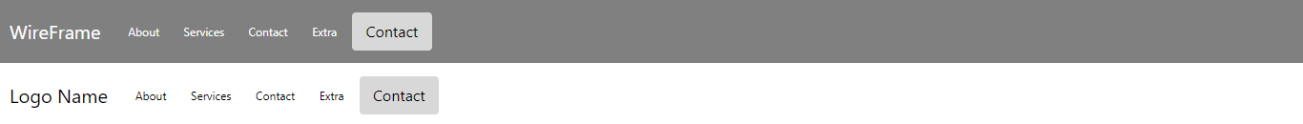
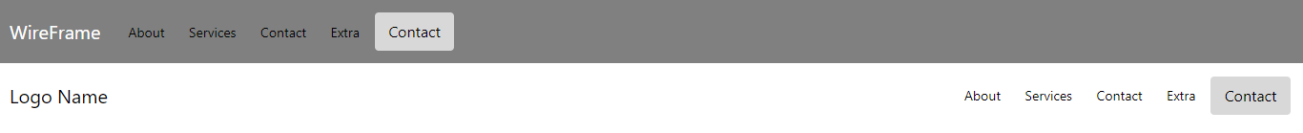
navbar right added

diff --git a/src/App.js b/src/App.js
@@ -1,23 +1,37 @@
 import React from 'react';
 import './App.scss';
 import WireNavBar from './components/WireNavBar';
-import { Navbar, Nav, NavDropdown} from 'react-bootstrap'
-
 import 'bootstrap/dist/css/bootstrap.min.css';
+import { Navbar, Nav, NavDropdown} from 'react-bootstrap'
 import WireNavbarLogo from './components/WireNavbarLogo';
 import WireNavbarLink from './components/WireNavbarLink';
 import Button from './components/Button';
+import Container from './components/Container';
+import NavItemsContainer from './components/NavItemsContainer'
 
 function App() {
   return (
     <div className="App">
        <WireNavBar dark>
           <WireNavbarLogo />  
-          <WireNavbarLink linkTag="About"/>
-          <WireNavbarLink linkTag="Services" />
-          <WireNavbarLink linkTag="Contact" />
-          <WireNavbarLink linkTag="Extra" />
-          <Button btnName="Contact"/>
+          <NavItemsContainer>
+            <WireNavbarLink linkTag="About"/>
+            <WireNavbarLink linkTag="Services" />
+            <WireNavbarLink linkTag="Contact" />
+            <WireNavbarLink linkTag="Extra" />
+            <Button btnName="Contact"/>
+          </NavItemsContainer>
+       </WireNavBar>
+
+       <WireNavBar >
+       <WireNavbarLogo companyName="Logo Name"/>  
+          <NavItemsContainer right >
+            <WireNavbarLink linkTag="About"/>
+            <WireNavbarLink linkTag="Services" />
+            <WireNavbarLink linkTag="Contact" />
+            <WireNavbarLink linkTag="Extra" />
+            <Button btnName="Contact"/>
+          </NavItemsContainer>
        </WireNavBar>
 
        <WireNavBar >
@@ -28,12 +42,38 @@ function App() {
           <WireNavbarLink linkTag="Extra" />
           <Button btnName="Contact"/>
        </WireNavBar>
-
-       <Button primary btnName="Contact"/>
-       <Button btnName="About"/>
+      <Container>
+        <Button primary btnName="Contact"/>
+        <Button btnName="About"/>
+      </Container>
+    
+      <Navbar collapseOnSelect expand="lg" bg="dark" variant="dark">
+  <Navbar.Brand href="#home">React-Bootstrap</Navbar.Brand>
+  <Navbar.Toggle aria-controls="responsive-navbar-nav" />
+  <Navbar.Collapse id="responsive-navbar-nav">
+    <Nav className="mr-auto">
+      <Nav.Link href="#features">Features</Nav.Link>
+      <Nav.Link href="#pricing">Pricing</Nav.Link>
+      <NavDropdown title="Dropdown" id="collasible-nav-dropdown">
+        <NavDropdown.Item href="#action/3.1">Action</NavDropdown.Item>
+        <NavDropdown.Item href="#action/3.2">Another action</NavDropdown.Item>
+        <NavDropdown.Item href="#action/3.3">Something</NavDropdown.Item>
+        <NavDropdown.Divider />
+        <NavDropdown.Item href="#action/3.4">Separated link</NavDropdown.Item>
+      </NavDropdown>
+    </Nav>
+    <Nav>
+      <Nav.Link href="#deets">More deets</Nav.Link>
+      <Nav.Link eventKey={2} href="#memes">
+        Dank memes
+      </Nav.Link>
+    </Nav>
+  </Navbar.Collapse>
+</Navbar>
     </div>
   );
 }
+
 
 
 export default App;

diff --git a/src/App.scss b/src/App.scss
@@ -4,6 +4,9 @@
   
     color: black;
 }
+body{
+    background-color:rgb(243, 243, 243) !important;
+}
 
 .nav-bar{
     display: flex;
@@ -16,16 +19,22 @@
     a {
         margin-right: 1rem;
         font-size: 20px;
-       
+       white-space: nowrap;
     }
     .nav-link{
         margin: 0;
-        font-size: 12px;
+        font-size: 14px;
         padding: 0.5rem 0.8rem;
     }
     .logo-container{
         height: auto;
     }
+}
+
+.nav-items-container{
+    display: inline-flex;
+    align-items: center;
+    width: 100%;
 }
 
 .wireframe-btn{

diff --git a/src/components/Container.jsx b/src/components/Container.jsx
@@ -1,0 +1,21 @@
+import React from 'react'
+import styled from 'styled-components'
+
+const StylaedCont = styled.div`
+    color: ${props => props.dark ? "white" : "black"};
+    margin: 0% ${props => props.margin};
+    `;
+
+Container.defaultProps = {
+    margin: "5%"
+}
+
+function Container(props) {
+    return (
+    <StylaedCont margin={props.margin}>
+          {props.children}
+    </StylaedCont>    
+    )
+}
+
+export default Container

diff --git a/src/components/NavItemsContainer.jsx b/src/components/NavItemsContainer.jsx
@@ -1,0 +1,19 @@
+import React from 'react'
+import styled from 'styled-components'
+
+const ItemsContainer = styled.div`
+    justify-content: ${props => props.right ? "flex-end" : "flex-start"};
+    `;
+
+
+
+function NavItemsContainer(props) {
+    return (
+        <ItemsContainer right={props.right} className="nav-items-container">
+             {props.children}
+        </ItemsContainer>
+
+    )
+}
+
+export default NavItemsContainer

diff --git a/README.md b/README.md
@@ -27,21 +27,26 @@ Default Props -
 ![Image of nav](https://github.com/timwf/react-wireframe/blob/master/src/demo-images/navbar.png)
 
        <WireNavBar dark>
+       <WireNavBar dark>
           <WireNavbarLogo />  
-          <WireNavbarLink linkTag="About"/>
-          <WireNavbarLink linkTag="Services" />
-          <WireNavbarLink linkTag="Contact" />
-          <WireNavbarLink linkTag="Extra" />
-          <Button btnName="Contact"/>
+          <NavItemsContainer>
+            <WireNavbarLink linkTag="About"/>
+            <WireNavbarLink linkTag="Services" />
+            <WireNavbarLink linkTag="Contact" />
+            <WireNavbarLink linkTag="Extra" />
+            <Button btnName="Contact"/>
+          </NavItemsContainer>
        </WireNavBar>
 
        <WireNavBar >
-          <WireNavbarLogo companyName="Logo Name"/>  
-          <WireNavbarLink linkTag="About"/>
-          <WireNavbarLink linkTag="Services" />
-          <WireNavbarLink linkTag="Contact" />
-          <WireNavbarLink linkTag="Extra" />
-          <Button btnName="Contact"/>
+       <WireNavbarLogo companyName="Logo Name"/>  
+          <NavItemsContainer right >
+            <WireNavbarLink linkTag="About"/>
+            <WireNavbarLink linkTag="Services" />
+            <WireNavbarLink linkTag="Contact" />
+            <WireNavbarLink linkTag="Extra" />
+            <Button btnName="Contact"/>
+          </NavItemsContainer>
        </WireNavBar>
        
 
